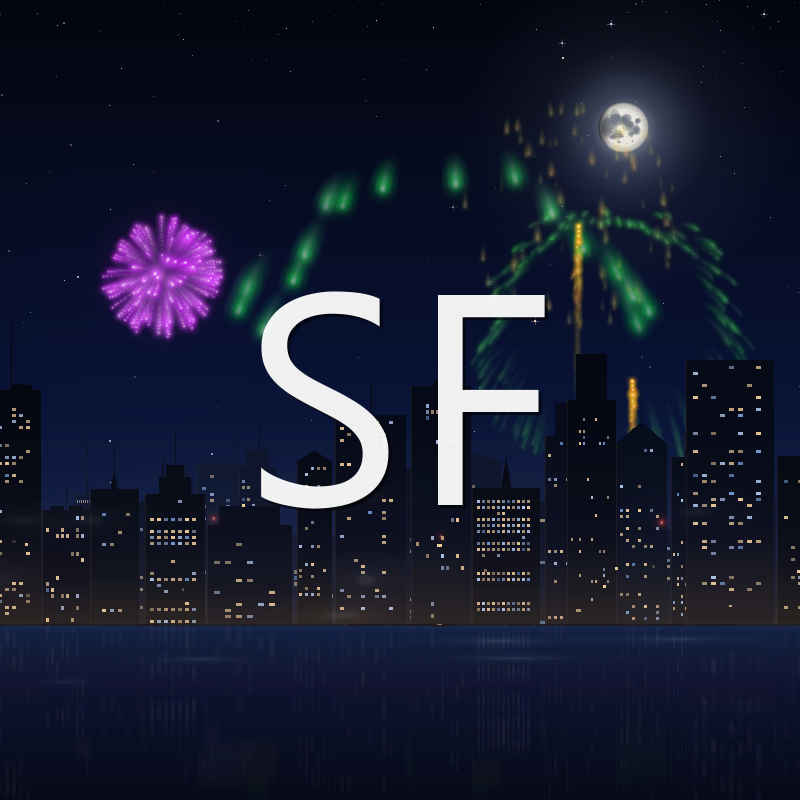
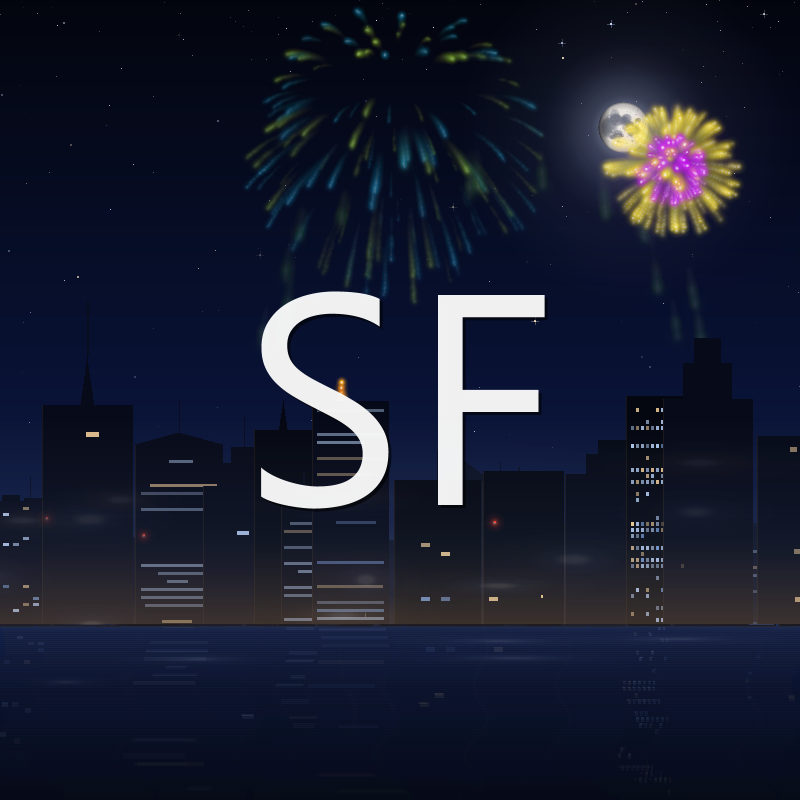
Tipos de edificio, agua rehecha y mas niebla
Tres cosas que se pedian.

TIPOS DE EDIFICIO. Todos recibian el mismo tratamiento de ventanas, asi que
la ciudad era una masa oscura con el mismo picoteo, y algunos ademas
atiborrados. Ahora hay cuatro:
- Torre de oficinas: reticula apretada, luz fria, a veces plantas enteras.
- Vivienda: ventanas mayores, calidas, pocas y desordenadas. No todo el mundo
  esta despierto.
- Torre de cristal: bandas horizontales de acristalamiento continuo, que es
  lo que distingue a un edificio moderno y a distancia se nota mas que
  ningun otro detalle.
- A oscuras: cuatro luces sueltas. Hacen falta para que los demas destaquen.
Los mas altos tienden a ser torres; los bajos, vivienda.

AGUA. El reflejo volcaba la ciudad entera boca abajo y se reconocia; en el
agua lo que hay son trazos verticales rotos. Ahora va por franjas de tres
pixeles con desplazamiento propio, dos ondas de periodo distinto (una sola se
lee como zigzag) y estirado vertical creciente con la profundidad. El reflejo
vivo de la pirotecnia pasa a bilineal, porque con franjas finas el vecino mas
cercano se veia a escalones.

NIEBLA. De diez a dieciocho jirones y velo casi al doble de denso.

Ajuste de rendimiento: la primera version del agua subio el fotograma de 16 a
21 ms, con pintarAgua a 10,9. El reflejo vivo se dibujaba hasta el fondo del
agua, donde su opacidad ya es despreciable pero el volcado a lo ancho de la
pantalla cuesta igual. Acotado al 66 % cercano a la orilla y con apagado
[…]

diff --git a/src/j4f/Escenario.java b/src/j4f/Escenario.java
@@ -37,7 +37,7 @@ public class Escenario {
     private static final int MAX_BALIZAS = 4;
     private static final int NUM_BRILLOS_AGUA = 5;
     /** Jirones de niebla que se arrastran entre los edificios. */
-    private static final int NUM_JIRONES = 10;
+    private static final int NUM_JIRONES = 18;
 
     /** Tonos posibles de las estrellas: blanco, azulado y calido. */
     private static final Color[] TONOS_ESTRELLA = {
@@ -107,6 +107,8 @@ public class Escenario {
     private int alto;
     private double horizonte;
     private int yHorizonte;
+    /** Por encima de esta altura un edificio cuenta como torre. */
+    private int alturaTorre;
     private double t;
 
     // Jirones de niebla: posicion, tamano y deriva de cada uno.
@@ -187,6 +189,7 @@ public class Escenario {
         if (yHorizonte > alto - 1) {
             yHorizonte = alto - 1;
         }
+        alturaTorre = (int) Math.round(alto * 0.14);
         generarEstrellas();
         generarBrillosAgua();
         generarNiebla();
@@ -688,35 +691,81 @@ public class Escenario {
         return arriba;
     }
 
+    /** Torre de oficinas: reticula apretada y luz fria. */
+    private static final int TIPO_OFICINAS = 0;
+    /** Vivienda: ventanas mayores, calidas y desordenadas. */
+    private static final int TIPO_RESIDENCIAL = 1;
+    /** Torre de cristal: bandas horizontales continuas de acristalamiento. */
+    private static final int TIPO_CRISTAL = 2;
+    /** Edificio a oscuras: casi sin luces, solo silueta. */
+    private static final int TIPO_OSCURO = 3;
+
+    /** Elige tipo de edificio. Los mas altos tienden a ser torres. */
+    private int tipoEdificio(int h, double cercania) {
+        boolean alto = h > alturaTorre;
+        double d = Azar.entre(0.0, 1.0);
+        if (alto) {
+            if (d < 0.45) {
+                return TIPO_OFICINAS;
+            }
+            if (d < 0.63) {
+                return TIPO_CRISTAL;
+            }
+            return d < 0.92 ? TIPO_RESIDENCIAL : TIPO_OSCURO;
+        }
+        if (d < 0.42) {
+            return TIPO_RESIDENCIAL;
+        }
+        if (d < 0.62) {
+            return TIPO_OFICINAS;
+        }
+        return d < 0.70 ? TIPO_CRISTAL : TIPO_OSCURO;
+    }
+
     /**
      * Ventanas encendidas.
      *
-     * Cada edificio tiene su reticula y su caracter: unos con plantas enteras
-     * iluminadas, otros con luces sueltas. Una rejilla uniforme delata al
-     * instante que es un dibujo.
+     * Cuatro tipos de edificio con tratamientos distintos. Aplicar la misma
+     * reticula a todos los dejaba a todos iguales: una masa oscura con el
+     * mismo picoteo, y algunos ademas atiborrados. Una ciudad de verdad mezcla
+     * torres de oficinas, viviendas, fachadas de cristal y edificios que a esa
+     * hora estan apagados, y esa mezcla es la que se lee como ciudad.
      */
     private void pintarVentanas(Graphics2D g, int x, int y, int w, int h,
             int pisoAlto, int minVentana, List<int[]> vivas,
             double cercania, float calima) {
         g.setPaint(null);
+        int tipo = tipoEdificio(h, cercania);
+        if (tipo == TIPO_OSCURO) {
+            // Unas pocas luces sueltas y poco mas: tambien hace falta que
+            // algunos edificios esten a oscuras para que los demas destaquen.
+            pintarLucesSueltas(g, x, y, w, h, pisoAlto, cercania, calima);
+            return;
+        }
+        if (tipo == TIPO_CRISTAL) {
+            pintarBandasCristal(g, x, y, w, h, pisoAlto, cercania, calima);
+            return;
+        }
+
+        boolean oficinas = tipo == TIPO_OFICINAS;
         int margen = Math.max(1, w / 12);
-        // Ventanas pequenas y muchas. En una foto nocturna el edificio es una
-        // masa negra y todo el dibujo lo hacen las ventanas; pocas y grandes
-        // se leen como agujeros, no como una fachada.
-        int vw = Math.max(minVentana, (int) Math.round(w * Azar.entre(0.040, 0.075)));
-        int vh = Math.max(minVentana, (int) Math.round(pisoAlto * Azar.entre(0.40, 0.60)));
-        int paso = vw + Math.max(1, (int) (vw * Azar.entre(0.75, 1.20)));
+        int vw = Math.max(minVentana, (int) Math.round(w * (oficinas
+                ? Azar.entre(0.040, 0.070) : Azar.entre(0.090, 0.150))));
+        int paso = vw + Math.max(1, (int) (vw * (oficinas
+                ? Azar.entre(0.70, 1.05) : Azar.entre(1.10, 1.90))));
+        int alturaPiso = oficinas ? pisoAlto : (int) Math.round(pisoAlto * 1.5);
+        int vh = Math.max(minVentana, (int) Math.round(alturaPiso * Azar.entre(0.40, 0.60)));
         int columnas = (w - margen * 2) / paso;
         if (columnas < 1) {
             return;
         }
-        double densidad = Azar.entre(0.10, 0.42);
-        // Oficinas a medianoche: plantas enteras encendidas.
-        boolean porPlantas = Azar.probabilidad(0.22);
+        // La vivienda enciende menos: no todo el mundo esta en casa despierto.
+        double densidad = oficinas ? Azar.entre(0.14, 0.40) : Azar.entre(0.06, 0.20);
+        boolean porPlantas = oficinas && Azar.probabilidad(0.26);
 
-        for (int fy = y + pisoAlto; fy < y + h - vh; fy += pisoAlto) {
+        for (int fy = y + alturaPiso; fy < y + h - vh; fy += alturaPiso) {
             boolean plantaViva = porPlantas && Azar.probabilidad(0.30);
-            if (!plantaViva && Azar.probabilidad(0.45)) {
+            if (!plantaViva && Azar.probabilidad(oficinas ? 0.42 : 0.58)) {
                 continue;
             }
             for (int c = 0; c < columnas; c++) {
@@ -731,23 +780,75 @@ public class Escenario {
                     vivas.add(new int[]{vx, fy, vw, vh});
                     continue;
                 }
-                // Tres temperaturas: calida de vivienda, fria de oficina y el
-                // azul de una pantalla encendida.
-                Color luz;
-                double t = Azar.entre(0.0, 1.0);
-                if (t < 0.62) {
-                    luz = LUZ_VENTANA;
-                } else if (t < 0.92) {
-                    luz = LUZ_OFICINA;
-                } else {
-                    luz = LUZ_PANTALLA;
-                }
-                luz = Destello.mezclar(luz, CALIMA_CIUDAD, calima * 0.6f);
-                int op = (int) (Azar.entre(120, 235) * (0.55 + 0.45 * cercania));
-                g.setColor(Destello.alfa(luz, op));
+                g.setColor(colorVentana(oficinas, cercania, calima));
                 g.fillRect(vx, fy, vw, vh);
             }
         }
+    }
+
+    /**
+     * Torre de cristal: bandas horizontales de acristalamiento continuo.
+     *
+     * Es lo que distingue a un edificio moderno de uno de ventanas picadas, y
+     * a distancia la diferencia se nota mas que ningun otro detalle.
+     */
+    private void pintarBandasCristal(Graphics2D g, int x, int y, int w, int h,
+            int pisoAlto, double cercania, float calima) {
+        int margen = Math.max(1, w / 14);
+        int alturaBanda = Math.max(2, (int) Math.round(pisoAlto * 1.4));
+        int grosor = Math.max(1, (int) Math.round(alturaBanda * 0.42));
+        for (int fy = y + alturaBanda; fy < y + h - grosor; fy += alturaBanda) {
+            if (Azar.probabilidad(0.46)) {
+                continue;   // planta sin luz
+            }
+            // La banda no llega siempre de lado a lado: se interrumpe.
+            int desde = x + margen + (Azar.probabilidad(0.35)
+                    ? (int) Math.round(w * Azar.entre(0.0, 0.35)) : 0);
+            int hasta = x + w - margen - (Azar.probabilidad(0.35)
+                    ? (int) Math.round(w * Azar.entre(0.0, 0.35)) : 0);
+            if (hasta - desde < 2) {
+                continue;
+            }
+            // A media opacidad: encendidas a tope, las bandas se comian la
+            // escena y la ciudad parecia un muro de persianas.
+            Color c = colorVentana(true, cercania, calima * 1.2f);
+            g.setColor(Destello.alfa(c, (int) (c.getAlpha() * 0.62)));
+            g.fillRect(desde, fy, hasta - desde, grosor);
+        }
+    }
+
+    /** Edificio casi apagado: cuatro luces sueltas y nada mas. */
+    private void pintarLucesSueltas(Graphics2D g, int x, int y, int w, int h,
+            int pisoAlto, double cercania, float calima) {
+        int n = Azar.entre(0, 5);
+        int vw = Math.max(1, (int) Math.round(w * 0.09));
+        int vh = Math.max(1, (int) Math.round(pisoAlto * 0.9));
+        for (int i = 0; i < n; i++) {
+            int vx = x + Azar.entre(2, Math.max(3, w - vw - 2));
+            int vy = y + Azar.entre(pisoAlto, Math.max(pisoAlto + 1, h - vh));
+            g.setColor(colorVentana(Azar.probabilidad(0.3), cercania, calima));
+            g.fillRect(vx, vy, vw, vh);
+        }
+    }
+
+    /**
+     * Color de una ventana encendida.
+     *
+     * Tres temperaturas: calida de vivienda, fria de oficina y el azul de una
+     * pantalla a deshora. Las oficinas tiran a fria y las viviendas a calida,
+     * que es lo que de verdad se ve desde fuera.
+     */
+    private Color colorVentana(boolean oficinas, double cercania, float calima) {
+        double t = Azar.entre(0.0, 1.0);
+        Color luz;
+        if (oficinas) {
+            luz = t < 0.62 ? LUZ_OFICINA : (t < 0.88 ? LUZ_VENTANA : LUZ_PANTALLA);
+        } else {
+            luz = t < 0.74 ? LUZ_VENTANA : (t < 0.93 ? LUZ_OFICINA : LUZ_PANTALLA);
+        }
+        luz = Destello.mezclar(luz, CALIMA_CIUDAD, Math.min(0.85f, calima * 0.6f));
+        int op = (int) (Azar.entre(120, 235) * (0.55 + 0.45 * cercania));
+        return Destello.alfa(luz, op);
     }
 
     private void volcarVentanas(List<int[]> vivas) {
@@ -813,7 +914,7 @@ public class Escenario {
             nieVel[i] = Azar.entre(2.0, 9.0) * (Azar.probabilidad(0.5) ? 1 : -1);
             nieFase[i] = Azar.angulo();
             double cercania = (double) (nieY[i] - techo) / Math.max(1.0, yHorizonte - techo);
-            nieAlfa[i] = (float) (0.038 + 0.070 * cercania);
+            nieAlfa[i] = (float) (0.050 + 0.095 * cercania);
             nieCalida[i] = Azar.probabilidad(0.45);
         }
         nieblaVelo = crearVeloNiebla();
@@ -862,8 +963,8 @@ public class Escenario {
                 new float[]{0f, 0.55f, 1f},
                 new Color[]{
                     Destello.alfa(NIEBLA_FRIA, 0),
-                    Destello.alfa(NIEBLA_FRIA, 16),
-                    Destello.alfa(NIEBLA_CALIDA, 40)}));
+                    Destello.alfa(NIEBLA_FRIA, 30),
+                    Destello.alfa(NIEBLA_CALIDA, 66)}));
         g.fillRect(0, 0, ancho, altoVelo);
         g.dispose();
         return img;
@@ -911,13 +1012,28 @@ public class Escenario {
             // verticales. Volcado de una sola pasada, las ventanas quedaban
             // como bloques nitidos flotando en el agua; asi se deshacen en
             // trazos, que es como se comportan de verdad.
-            int[] desplazamientos = {-7, -4, -2, 0, 2, 4, 7};
-            for (int i = 0; i < desplazamientos.length; i++) {
-                int dy = desplazamientos[i];
-                g.setComposite(Destello.mezcla(0.030f));
+            // El reflejo se deshace en franjas con desplazamiento propio.
+            // Volcarlo entero, aunque fuera varias veces, dejaba la ciudad
+            // reconocible boca abajo; en el agua lo que hay son trazos
+            // verticales rotos, y cuanto mas lejos de la orilla, mas rotos.
+            int franja = 3;
+            for (int d = 0; d < destAlto; d += franja) {
+                int sy = yHorizonte - d;
+                if (sy - franja < 0) {
+                    break;
+                }
+                double prof = (double) d / Math.max(1, destAlto);
+                // Dos ondas de periodo distinto: una sola se lee como zigzag.
+                int off = (int) Math.round(
+                        Math.sin(d * 0.085) * (2 + 16 * prof)
+                        + Math.sin(d * 0.031 + 1.7) * (1 + 9 * prof));
+                // Se estira en vertical: el reflejo se alarga con el oleaje.
+                int altoDest = franja + (int) Math.round(4 * prof);
+                float a = (float) (0.16 * (1 - prof * 0.75));
+                g.setComposite(Destello.mezcla(a));
                 g.drawImage(skyline,
-                        0, dy, ancho, destAlto + dy,
-                        0, yHorizonte, ancho, origenArriba, null);
+                        off, d, ancho + off, d + altoDest,
+                        0, sy, ancho, sy - franja, null);
             }
         }
 
@@ -1005,21 +1121,37 @@ public class Escenario {
         // Reflejo vivo de la pirotecnia: tiras horizontales espejadas sobre el
         // horizonte, desplazadas por una onda y desvanecidas con la profundidad.
         if (estelas != null) {
+            // Bilineal y no vecino mas cercano: con franjas finas el salto
+            // entre ellas se veia como escalones.
             g.setRenderingHint(RenderingHints.KEY_INTERPOLATION,
-                    RenderingHints.VALUE_INTERPOLATION_NEAREST_NEIGHBOR);
-            int paso = 6;
-            for (int d = 0; d < hAgua; d += paso) {
+                    RenderingHints.VALUE_INTERPOLATION_BILINEAR);
+            int paso = 5;
+            // El reflejo vivo solo se dibuja en la franja cercana a la orilla.
+            // Mas abajo su opacidad ya es despreciable, pero seguia costando
+            // el mismo volcado a lo ancho de la pantalla: era la mitad del
+            // coste de pintar el agua a cambio de nada visible.
+            int hastaD = (int) (hAgua * 0.66);
+            for (int d = 0; d < hastaD; d += paso) {
                 int sy = y0 - d;
                 if (sy - paso < 0) {
                     break;
                 }
-                float a = (float) (0.34 * (1.0 - (double) d / hAgua));
-                if (a <= 0.01f) {
+                double prof = (double) d / hAgua;
+                // Se apaga del todo al llegar al corte, para que no se vea
+                // donde termina.
+                float a = (float) (0.34 * (1.0 - prof) * (1.0 - d / (double) hastaD));
+                if (a <= 0.012f) {
                     break;
                 }
-                int off = (int) Math.round(Math.sin(d * 0.055 + t * 2.2) * (1.5 + d * 0.05));
+                // Dos ondas superpuestas, mas amplias con la profundidad.
+                int off = (int) Math.round(
+                        Math.sin(d * 0.055 + t * 2.2) * (2 + 14 * prof)
+                        + Math.sin(d * 0.019 - t * 1.3) * (1 + 7 * prof));
+                // Cada franja se dibuja mas alta que su origen y pisa a la
+                // siguiente: eso las funde y da el estirado del reflejo.
+                int altoDest = paso + 1 + (int) Math.round(3 * prof);
                 g.setComposite(Destello.mezcla(a));
-                g.drawImage(estelas, off, y0 + d, ancho + off, y0 + d + paso,
+                g.drawImage(estelas, off, y0 + d, ancho + off, y0 + d + altoDest,
                         0, sy, ancho, sy - paso, null);
             }
         }
